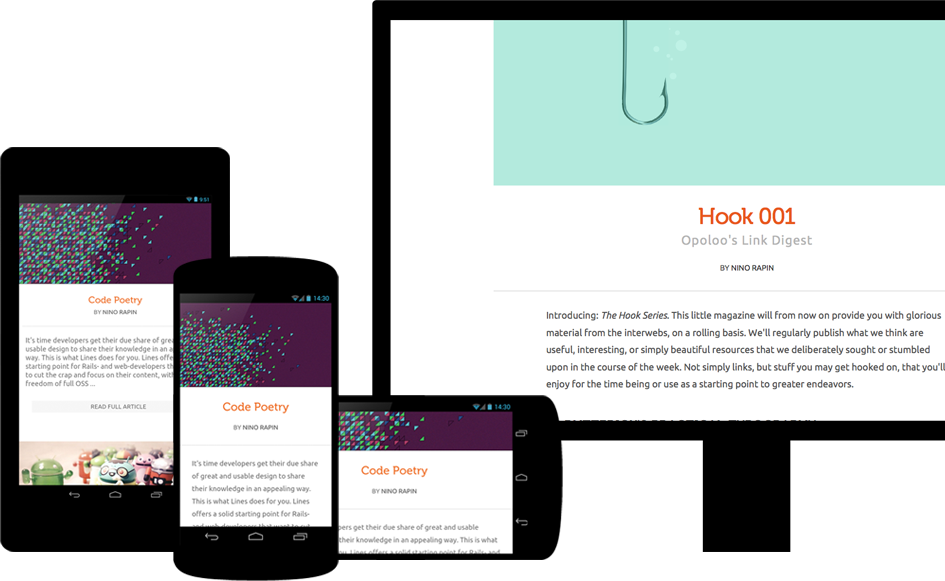
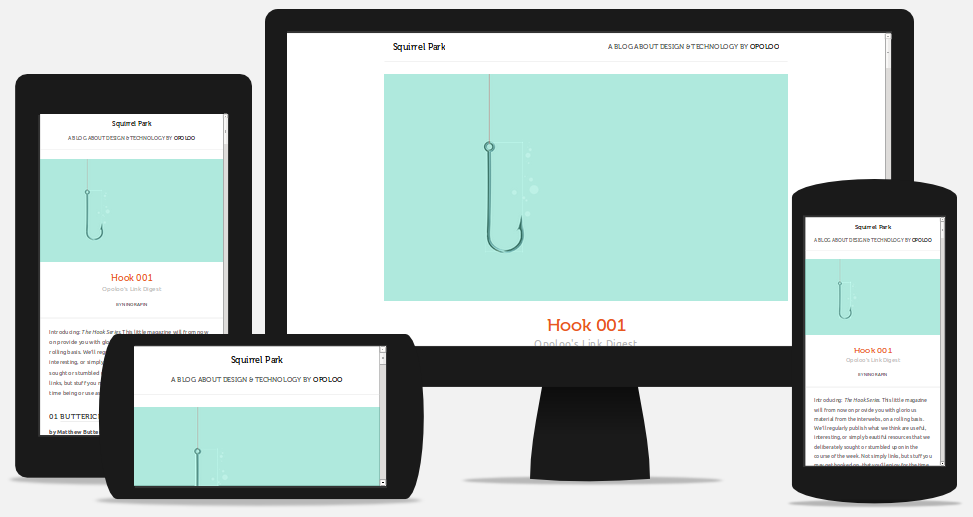
Added mobile devices image

diff --git a/stylesheets/stylesheet.css b/stylesheets/stylesheet.css
@@ -267,6 +267,10 @@ div#content #devices {
   position: relative;
 }
 
+div#content #devices img {
+  display: none;
+}
+
 div#content #devices div {
   position: absolute;
 }

diff --git a/index.php b/index.php
@@ -131,6 +131,7 @@
 					<div class="phone_portrait">
 						<iframe src="http://blog.opoloo.de"></iframe>
 					</div>
+					<img src="images/devices.png" alt="" />
 				</div>
 				<hr/>
 				<div id="installation" class="white_box">
